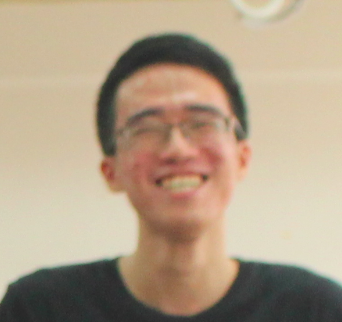
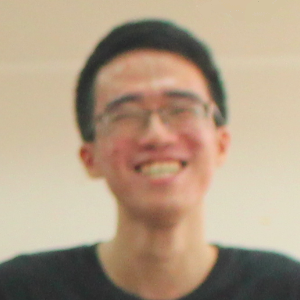
Site updated: 2019-01-13 20:11:09

diff --git a/index.html b/index.html
@@ -345,7 +345,7 @@
     <span hidden itemprop="author" itemscope="" itemtype="http://schema.org/Person">
       <meta itemprop="name" content="韩硕轩">
       <meta itemprop="description" content="">
-      <meta itemprop="image" content="/images/avatar1.png">
+      <meta itemprop="image" content="/images/avatar2.png">
     </span>
 
     <span hidden itemprop="publisher" itemscope="" itemtype="http://schema.org/Organization">
@@ -516,7 +516,7 @@
     <span hidden itemprop="author" itemscope="" itemtype="http://schema.org/Person">
       <meta itemprop="name" content="韩硕轩">
       <meta itemprop="description" content="">
-      <meta itemprop="image" content="/images/avatar1.png">
+      <meta itemprop="image" content="/images/avatar2.png">
     </span>
 
     <span hidden itemprop="publisher" itemscope="" itemtype="http://schema.org/Organization">
@@ -686,7 +686,7 @@
     <span hidden itemprop="author" itemscope="" itemtype="http://schema.org/Person">
       <meta itemprop="name" content="韩硕轩">
       <meta itemprop="description" content="">
-      <meta itemprop="image" content="/images/avatar1.png">
+      <meta itemprop="image" content="/images/avatar2.png">
     </span>
 
     <span hidden itemprop="publisher" itemscope="" itemtype="http://schema.org/Organization">
@@ -872,7 +872,7 @@
     <span hidden itemprop="author" itemscope="" itemtype="http://schema.org/Person">
       <meta itemprop="name" content="韩硕轩">
       <meta itemprop="description" content="">
-      <meta itemprop="image" content="/images/avatar1.png">
+      <meta itemprop="image" content="/images/avatar2.png">
     </span>
 
     <span hidden itemprop="publisher" itemscope="" itemtype="http://schema.org/Organization">
@@ -1055,7 +1055,7 @@
     <span hidden itemprop="author" itemscope="" itemtype="http://schema.org/Person">
       <meta itemprop="name" content="韩硕轩">
       <meta itemprop="description" content="">
-      <meta itemprop="image" content="/images/avatar1.png">
+      <meta itemprop="image" content="/images/avatar2.png">
     </span>
 
     <span hidden itemprop="publisher" itemscope="" itemtype="http://schema.org/Organization">
@@ -1250,7 +1250,7 @@ sudo apt-get install vpnc  #安装VPN（只有第一次需要）vpnc            
         <div class="site-overview">
           <div class="site-author motion-element" itemprop="author" itemscope="" itemtype="http://schema.org/Person">
             
-              <img class="site-author-image" itemprop="image" src="/images/avatar1.png" alt="韩硕轩">
+              <img class="site-author-image" itemprop="image" src="/images/avatar2.png" alt="韩硕轩">
             
               <p class="site-author-name" itemprop="name">韩硕轩</p>
               <p class="site-description motion-element" itemprop="description"></p>

diff --git a/0. 天河二号使用方法/index.html b/0. 天河二号使用方法/index.html
@@ -348,7 +348,7 @@
     <span hidden itemprop="author" itemscope="" itemtype="http://schema.org/Person">
       <meta itemprop="name" content="韩硕轩">
       <meta itemprop="description" content="">
-      <meta itemprop="image" content="/images/avatar1.png">
+      <meta itemprop="image" content="/images/avatar2.png">
     </span>
 
     <span hidden itemprop="publisher" itemscope="" itemtype="http://schema.org/Organization">
@@ -570,7 +570,7 @@
         <div class="site-overview">
           <div class="site-author motion-element" itemprop="author" itemscope="" itemtype="http://schema.org/Person">
             
-              <img class="site-author-image" itemprop="image" src="/images/avatar1.png" alt="韩硕轩">
+              <img class="site-author-image" itemprop="image" src="/images/avatar2.png" alt="韩硕轩">
             
               <p class="site-author-name" itemprop="name">韩硕轩</p>
               <p class="site-description motion-element" itemprop="description"></p>

diff --git a/1. 12月27日周四/index.html b/1. 12月27日周四/index.html
@@ -348,7 +348,7 @@
     <span hidden itemprop="author" itemscope="" itemtype="http://schema.org/Person">
       <meta itemprop="name" content="韩硕轩">
       <meta itemprop="description" content="">
-      <meta itemprop="image" content="/images/avatar1.png">
+      <meta itemprop="image" content="/images/avatar2.png">
     </span>
 
     <span hidden itemprop="publisher" itemscope="" itemtype="http://schema.org/Organization">
@@ -561,7 +561,7 @@
         <div class="site-overview">
           <div class="site-author motion-element" itemprop="author" itemscope="" itemtype="http://schema.org/Person">
             
-              <img class="site-author-image" itemprop="image" src="/images/avatar1.png" alt="韩硕轩">
+              <img class="site-author-image" itemprop="image" src="/images/avatar2.png" alt="韩硕轩">
             
               <p class="site-author-name" itemprop="name">韩硕轩</p>
               <p class="site-description motion-element" itemprop="description"></p>

diff --git a/2. 1月8日周二/index.html b/2. 1月8日周二/index.html
@@ -350,7 +350,7 @@
     <span hidden itemprop="author" itemscope="" itemtype="http://schema.org/Person">
       <meta itemprop="name" content="韩硕轩">
       <meta itemprop="description" content="">
-      <meta itemprop="image" content="/images/avatar1.png">
+      <meta itemprop="image" content="/images/avatar2.png">
     </span>
 
     <span hidden itemprop="publisher" itemscope="" itemtype="http://schema.org/Organization">
@@ -571,7 +571,7 @@
         <div class="site-overview">
           <div class="site-author motion-element" itemprop="author" itemscope="" itemtype="http://schema.org/Person">
             
-              <img class="site-author-image" itemprop="image" src="/images/avatar1.png" alt="韩硕轩">
+              <img class="site-author-image" itemprop="image" src="/images/avatar2.png" alt="韩硕轩">
             
               <p class="site-author-name" itemprop="name">韩硕轩</p>
               <p class="site-description motion-element" itemprop="description"></p>

diff --git a/3. 1月12日周六/index.html b/3. 1月12日周六/index.html
@@ -348,7 +348,7 @@
     <span hidden itemprop="author" itemscope="" itemtype="http://schema.org/Person">
       <meta itemprop="name" content="韩硕轩">
       <meta itemprop="description" content="">
-      <meta itemprop="image" content="/images/avatar1.png">
+      <meta itemprop="image" content="/images/avatar2.png">
     </span>
 
     <span hidden itemprop="publisher" itemscope="" itemtype="http://schema.org/Organization">
@@ -567,7 +567,7 @@
         <div class="site-overview">
           <div class="site-author motion-element" itemprop="author" itemscope="" itemtype="http://schema.org/Person">
             
-              <img class="site-author-image" itemprop="image" src="/images/avatar1.png" alt="韩硕轩">
+              <img class="site-author-image" itemprop="image" src="/images/avatar2.png" alt="韩硕轩">
             
               <p class="site-author-name" itemprop="name">韩硕轩</p>
               <p class="site-description motion-element" itemprop="description"></p>

diff --git a/【论文笔记】Deep-Feature-Flow-for-Video-Recognition/index.html b/【论文笔记】Deep-Feature-Flow-for-Video-Recognition/index.html
@@ -353,7 +353,7 @@
     <span hidden itemprop="author" itemscope="" itemtype="http://schema.org/Person">
       <meta itemprop="name" content="韩硕轩">
       <meta itemprop="description" content="">
-      <meta itemprop="image" content="/images/avatar1.png">
+      <meta itemprop="image" content="/images/avatar2.png">
     </span>
 
     <span hidden itemprop="publisher" itemscope="" itemtype="http://schema.org/Organization">
@@ -561,7 +561,7 @@
         <div class="site-overview">
           <div class="site-author motion-element" itemprop="author" itemscope="" itemtype="http://schema.org/Person">
             
-              <img class="site-author-image" itemprop="image" src="/images/avatar1.png" alt="韩硕轩">
+              <img class="site-author-image" itemprop="image" src="/images/avatar2.png" alt="韩硕轩">
             
               <p class="site-author-name" itemprop="name">韩硕轩</p>
               <p class="site-description motion-element" itemprop="description"></p>

diff --git a/about/index.html b/about/index.html
@@ -443,7 +443,7 @@
         <div class="site-overview">
           <div class="site-author motion-element" itemprop="author" itemscope="" itemtype="http://schema.org/Person">
             
-              <img class="site-author-image" itemprop="image" src="/images/avatar1.png" alt="韩硕轩">
+              <img class="site-author-image" itemprop="image" src="/images/avatar2.png" alt="韩硕轩">
             
               <p class="site-author-name" itemprop="name">韩硕轩</p>
               <p class="site-description motion-element" itemprop="description"></p>

diff --git a/archives/2018/12/index.html b/archives/2018/12/index.html
@@ -477,7 +477,7 @@
         <div class="site-overview">
           <div class="site-author motion-element" itemprop="author" itemscope="" itemtype="http://schema.org/Person">
             
-              <img class="site-author-image" itemprop="image" src="/images/avatar1.png" alt="韩硕轩">
+              <img class="site-author-image" itemprop="image" src="/images/avatar2.png" alt="韩硕轩">
             
               <p class="site-author-name" itemprop="name">韩硕轩</p>
               <p class="site-description motion-element" itemprop="description"></p>

diff --git a/archives/2018/index.html b/archives/2018/index.html
@@ -477,7 +477,7 @@
         <div class="site-overview">
           <div class="site-author motion-element" itemprop="author" itemscope="" itemtype="http://schema.org/Person">
             
-              <img class="site-author-image" itemprop="image" src="/images/avatar1.png" alt="韩硕轩">
+              <img class="site-author-image" itemprop="image" src="/images/avatar2.png" alt="韩硕轩">
             
               <p class="site-author-name" itemprop="name">韩硕轩</p>
               <p class="site-description motion-element" itemprop="description"></p>

diff --git a/archives/2019/01/index.html b/archives/2019/01/index.html
@@ -512,7 +512,7 @@
         <div class="site-overview">
           <div class="site-author motion-element" itemprop="author" itemscope="" itemtype="http://schema.org/Person">
             
-              <img class="site-author-image" itemprop="image" src="/images/avatar1.png" alt="韩硕轩">
+              <img class="site-author-image" itemprop="image" src="/images/avatar2.png" alt="韩硕轩">
             
               <p class="site-author-name" itemprop="name">韩硕轩</p>
               <p class="site-description motion-element" itemprop="description"></p>

diff --git a/archives/2019/index.html b/archives/2019/index.html
@@ -512,7 +512,7 @@
         <div class="site-overview">
           <div class="site-author motion-element" itemprop="author" itemscope="" itemtype="http://schema.org/Person">
             
-              <img class="site-author-image" itemprop="image" src="/images/avatar1.png" alt="韩硕轩">
+              <img class="site-author-image" itemprop="image" src="/images/avatar2.png" alt="韩硕轩">
             
               <p class="site-author-name" itemprop="name">韩硕轩</p>
               <p class="site-description motion-element" itemprop="description"></p>

diff --git a/archives/index.html b/archives/index.html
@@ -587,7 +587,7 @@
         <div class="site-overview">
           <div class="site-author motion-element" itemprop="author" itemscope="" itemtype="http://schema.org/Person">
             
-              <img class="site-author-image" itemprop="image" src="/images/avatar1.png" alt="韩硕轩">
+              <img class="site-author-image" itemprop="image" src="/images/avatar2.png" alt="韩硕轩">
             
               <p class="site-author-name" itemprop="name">韩硕轩</p>
               <p class="site-description motion-element" itemprop="description"></p>
